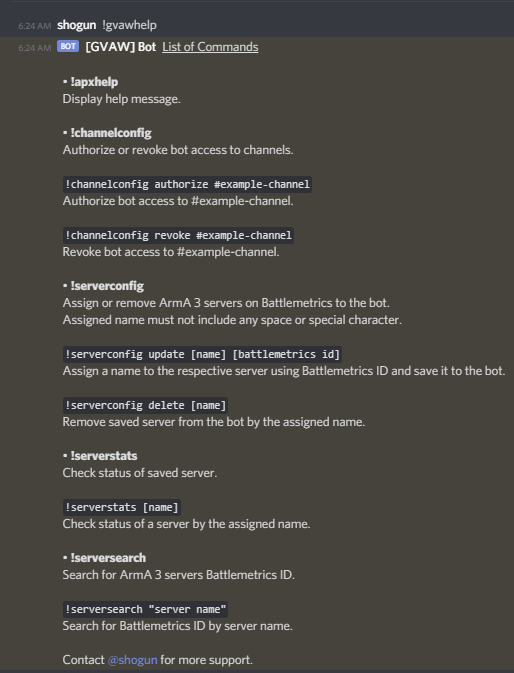
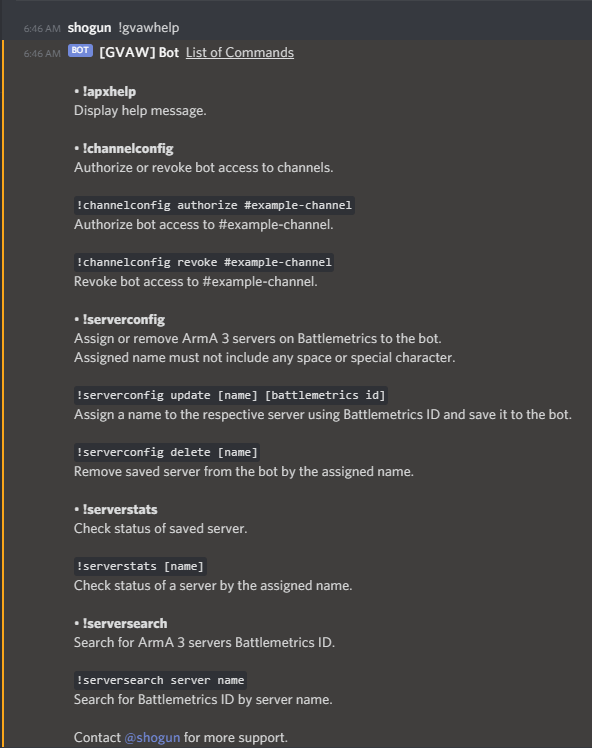
Update README.md

diff --git a/main/main.py b/main/main.py
@@ -162,7 +162,7 @@ async def gvawhelp(ctx):
             '`!serverconfig update [name] [battlemetrics id]`\nAssign a name to the respective server using Battlemetrics ID and save it to the bot.\n\n'
             '`!serverconfig delete [name]`\nRemove saved server from the bot by the assigned name.\n\n• **!serverstats**\nCheck status of saved server.\n\n'
             f'`!serverstats [name]`\nCheck status of a server by the assigned name.\n\n• **!serversearch**\nSearch for ArmA 3 servers Battlemetrics ID.\n\n'
-            f'`!serversearch "server name"`\nSearch for Battlemetrics ID by server name.\n\nContact {author} for more support.')
+            f'`!serversearch server name`\nSearch for Battlemetrics ID by server name.\n\nContact {author} for more support.')
 
         await ctx.send(helpMessage)
         

diff --git a/README.md b/README.md
@@ -11,7 +11,9 @@ The bot is able to show current mission, number of players and active players li
 ### !gvawhelp
 Display help message.
 
-![Alt Text](https://github.com/farhannysf/apx_bot/blob/master/docs/apxhelp.gif)
+![help](https://raw.githubusercontent.com/farhannysf/apx_bot/gvaw/docs/help.png)
+
+---
 
 ### !channelconfig
 Authorize or revoke bot access to channels.
@@ -22,7 +24,19 @@ Authorize bot access to #example-channel.
 ###### `!channelconfig revoke #example-channel`
 Revoke bot access to #example-channel.
 
-![Alt Text](https://github.com/farhannysf/apx_bot/blob/master/docs/channelconfig.gif)
+![channelconfig](https://raw.githubusercontent.com/farhannysf/apx_bot/gvaw/docs/channelconfig.png)
+
+---
+
+### !serversearch
+Search for ArmA 3 servers Battlemetrics ID.
+
+###### `!serversearch server name`
+Search for Battlemetrics ID by server name.
+
+![serversearch](https://raw.githubusercontent.com/farhannysf/apx_bot/gvaw/docs/serversearch.png)
+
+---
 
 ### !serverconfig
 Assign or remove ArmA 3 servers on Battlemetrics to the bot.
@@ -35,7 +49,9 @@ Assign a name to the respective server using Battlemetrics ID and save it to the
 ###### `!serverconfig delete [name]`
 Remove saved server from the bot by the assigned name.
 
-![Alt Text](https://github.com/farhannysf/apx_bot/blob/master/docs/serverconfig.gif)
+![serverconfig](https://raw.githubusercontent.com/farhannysf/apx_bot/gvaw/docs/serverconfig.png)
+
+---
 
 ### !serverstats
 Check status of saved server.
@@ -43,15 +59,9 @@ Check status of saved server.
 ###### `!serverstats [name]`
 Check status of a server by the assigned name.
 
-![Alt Text](https://github.com/farhannysf/apx_bot/blob/master/docs/serverstats.gif)
+![serverstats](https://raw.githubusercontent.com/farhannysf/apx_bot/gvaw/docs/serverstats.png)
 
-### !serversearch
-Search for ArmA 3 servers Battlemetrics ID.
-
-###### `!serversearch "server name"`
-Search for Battlemetrics ID by server name.
-
-![Alt Text](https://github.com/farhannysf/apx_bot/blob/master/docs/serversearch.gif)
+---
 
 # Sites/Tools used
 
